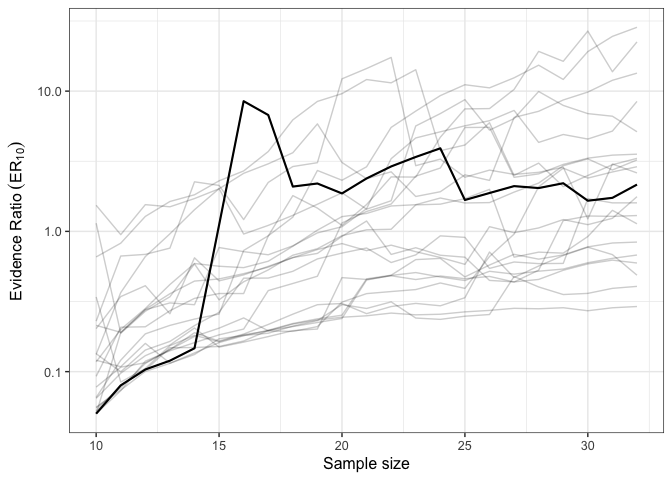
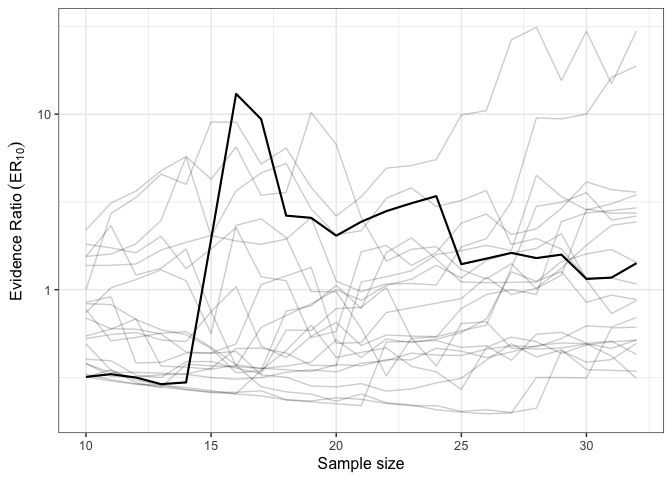
add bic + doc updates

diff --git a/README.md b/README.md
@@ -5,6 +5,8 @@ ESTER: Efficient Sequential Testing with Evidence Ratios
 
 [![CRAN status](http://www.r-pkg.org/badges/version/ESTER)](https://cran.r-project.org/package=ESTER) [![Build Status](https://travis-ci.org/lnalborczyk/ESTER.svg?branch=master)](https://travis-ci.org/lnalborczyk/ESTER)
 
+`ESTER` offers an implementation of sequential testing that uses evidence ratios computed from the so-called Akaike weights, that are based on either the Akaike Information Criterion (AIC) or the Bayesian Information Criterion (BIC). It allows to do sequential testing on observed data and to study the behaviour of sequential evidence ratios on simulated data as well.
+
 Installation
 ------------
 
@@ -29,7 +31,7 @@ This first function runs a simulated study in which we compare two independant g
 
 ``` r
 library(ESTER)
-ER <- simER(cohensd = 0.6, nmin = 20, n = 100, plot = TRUE)
+ER <- simER(cohensd = 0.6, nmin = 20, n = 100, ic = aic, plot = TRUE)
 ```
 
 ![](README-unnamed-chunk-2-1.png)
@@ -37,7 +39,7 @@ ER <- simER(cohensd = 0.6, nmin = 20, n = 100, plot = TRUE)
 We also can study the distribution of evidence ratios for `nSims` simulations runned with the previous function using `distER`, where the plotted vertical dashed line represents the median of the ERs distribution.
 
 ``` r
-ER <- distER(cohensd = 0.6, nmin = 20, n = 100, nsims = 100)
+ER <- distER(cohensd = 0.6, nmin = 20, n = 100, ic = bic, nsims = 100)
 ```
 
 ![](README-unnamed-chunk-3-1.png)
@@ -51,7 +53,7 @@ On the other hand (and perhaps more interestingly), `ESTER` can be used to do se
 data(mtcars)
 mod1 <- lm(mpg ~ cyl, mtcars)
 mod2 <- lm(mpg ~ cyl + disp, mtcars)
-plot(seqER(mod1, mod2, nmin = 10) )
+plot(seqER(ic = aic, mod1, mod2, nmin = 10) )
 ```
 
 ![](README-unnamed-chunk-4-1.png)
@@ -62,7 +64,7 @@ In addition, `seqERboot` allows you to study the behavior of sequential ERs comp
 data(mtcars)
 mod1 <- lm(mpg ~ cyl, mtcars)
 mod2 <- lm(mpg ~ cyl + disp, mtcars)
-plot(seqERboot(mod1, mod2, nmin = 10, order_nb = 20, replace = TRUE) )
+plot(seqERboot(ic = bic, mod1, mod2, nmin = 10, order_nb = 20, replace = TRUE) )
 ```
 
 ![](README-unnamed-chunk-5-1.png)
